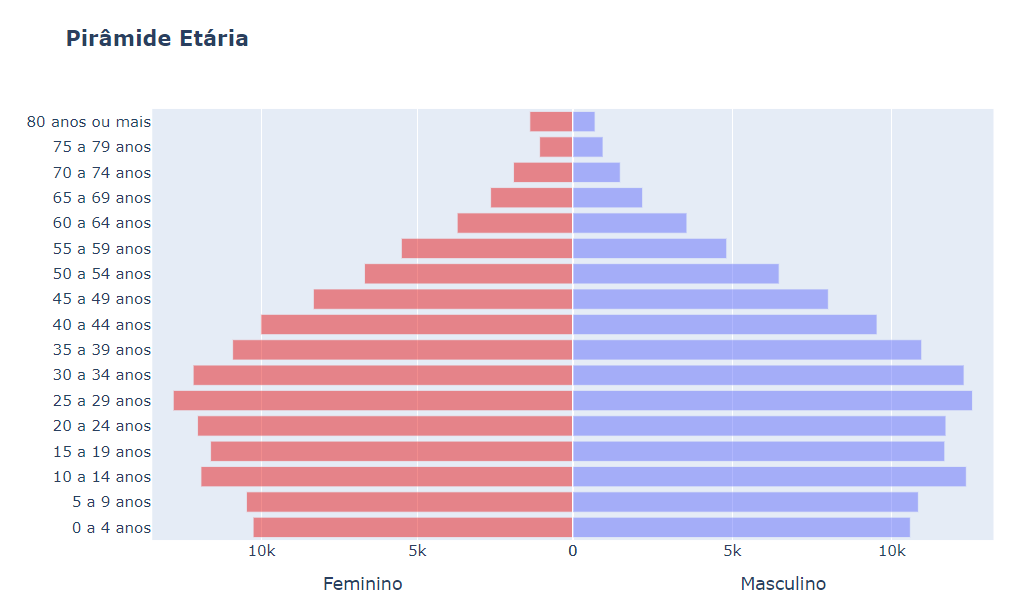
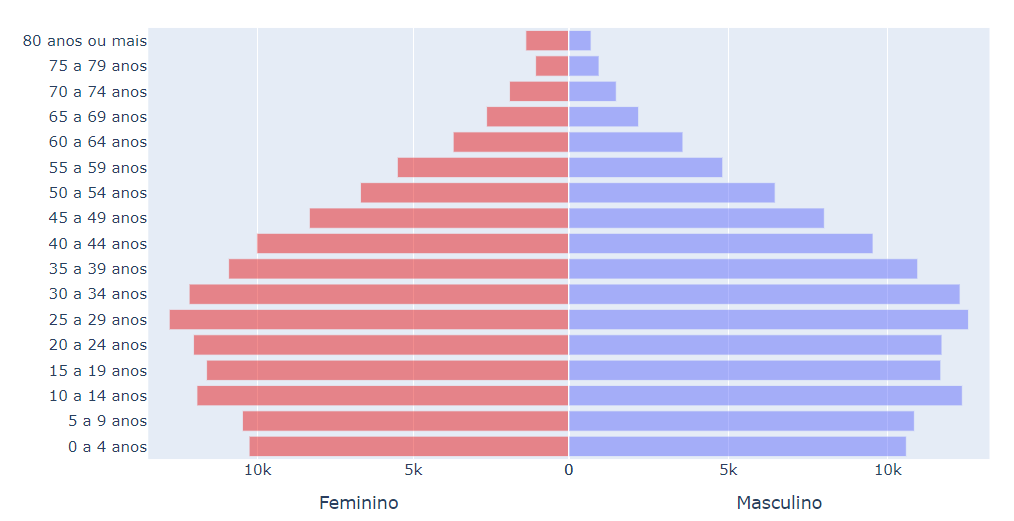
deploy: 0db9a38fa883639aa3c6a5653a41b41a1996055e

diff --git a/plotly/gráficos/python/2021/06/06/piramide-etaria-plotly.html b/plotly/gráficos/python/2021/06/06/piramide-etaria-plotly.html
@@ -160,6 +160,8 @@ window.onload = wrap_img;
     <svg class="octicon octicon-checklist" viewbox="0 0 16 16" version="1.1" width="16" height="16" aria-hidden="true"><path fill-rule="evenodd" d="M2.5 1.75a.25.25 0 01.25-.25h8.5a.25.25 0 01.25.25v7.736a.75.75 0 101.5 0V1.75A1.75 1.75 0 0011.25 0h-8.5A1.75 1.75 0 001 1.75v11.5c0 .966.784 1.75 1.75 1.75h3.17a.75.75 0 000-1.5H2.75a.25.25 0 01-.25-.25V1.75zM4.75 4a.75.75 0 000 1.5h4.5a.75.75 0 000-1.5h-4.5zM4 7.75A.75.75 0 014.75 7h2a.75.75 0 010 1.5h-2A.75.75 0 014 7.75zm11.774 3.537a.75.75 0 00-1.048-1.074L10.7 14.145 9.281 12.72a.75.75 0 00-1.062 1.058l1.943 1.95a.75.75 0 001.055.008l4.557-4.45z"></path></svg>
     <strong>Tip: </strong>Neste texto, vamos direto ao trabalho operacional. Para saber sobre definição do que é a pirâmide etária e suas mudanças no Brasil, veja <a href="https://www.youtube.com/watch?v=UPgR_LL0Fz0">aqui um ótimo vídeo do IBGE</a>.
 </div>
+<p>Aqui está o gráfico que vamos gerar para o município de São José dos Pinhais/PR.
+<img src="https://raw.githubusercontent.com/augustogeog/augustogeog/master/images/piramide_etaria.png" alt="Pirâmide Etária"></p>
 
 </div>
 </div>
